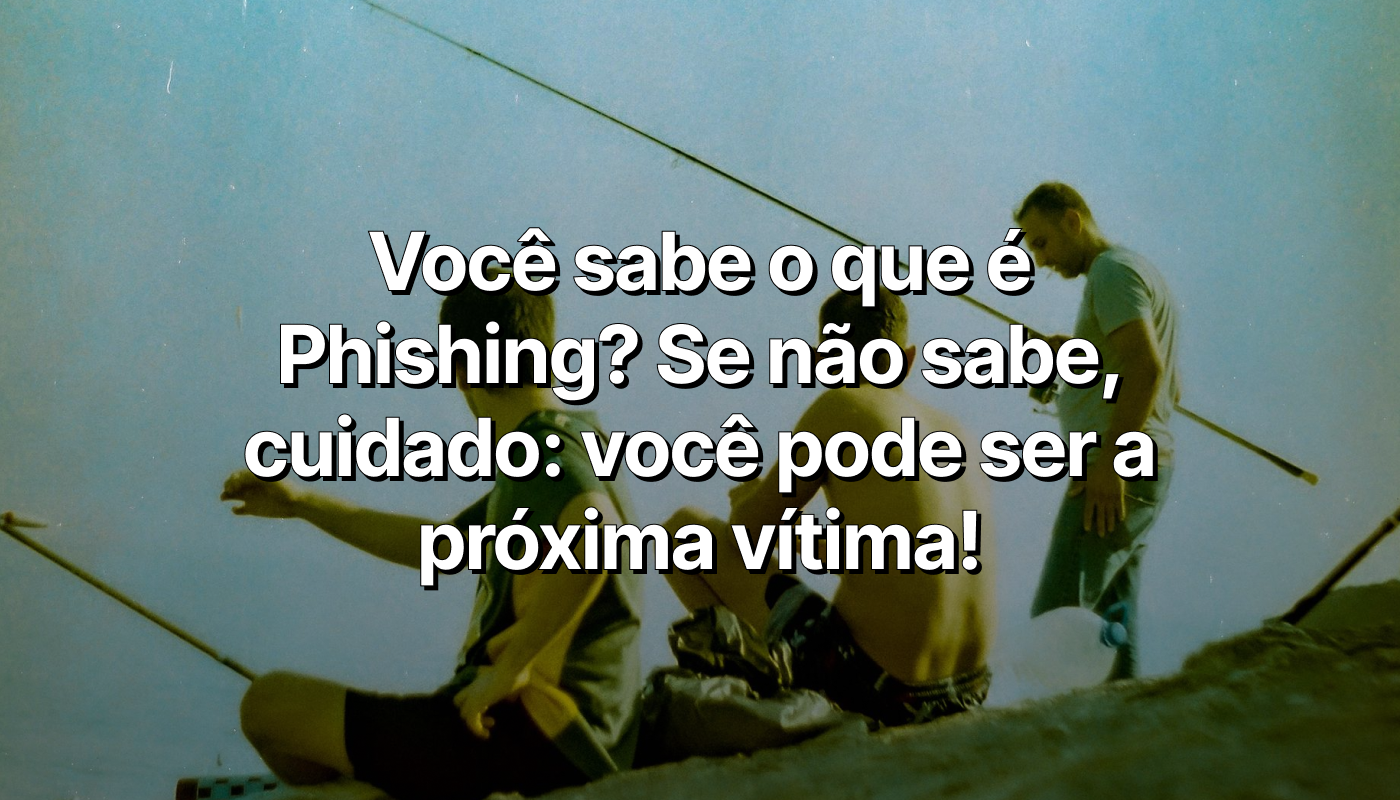
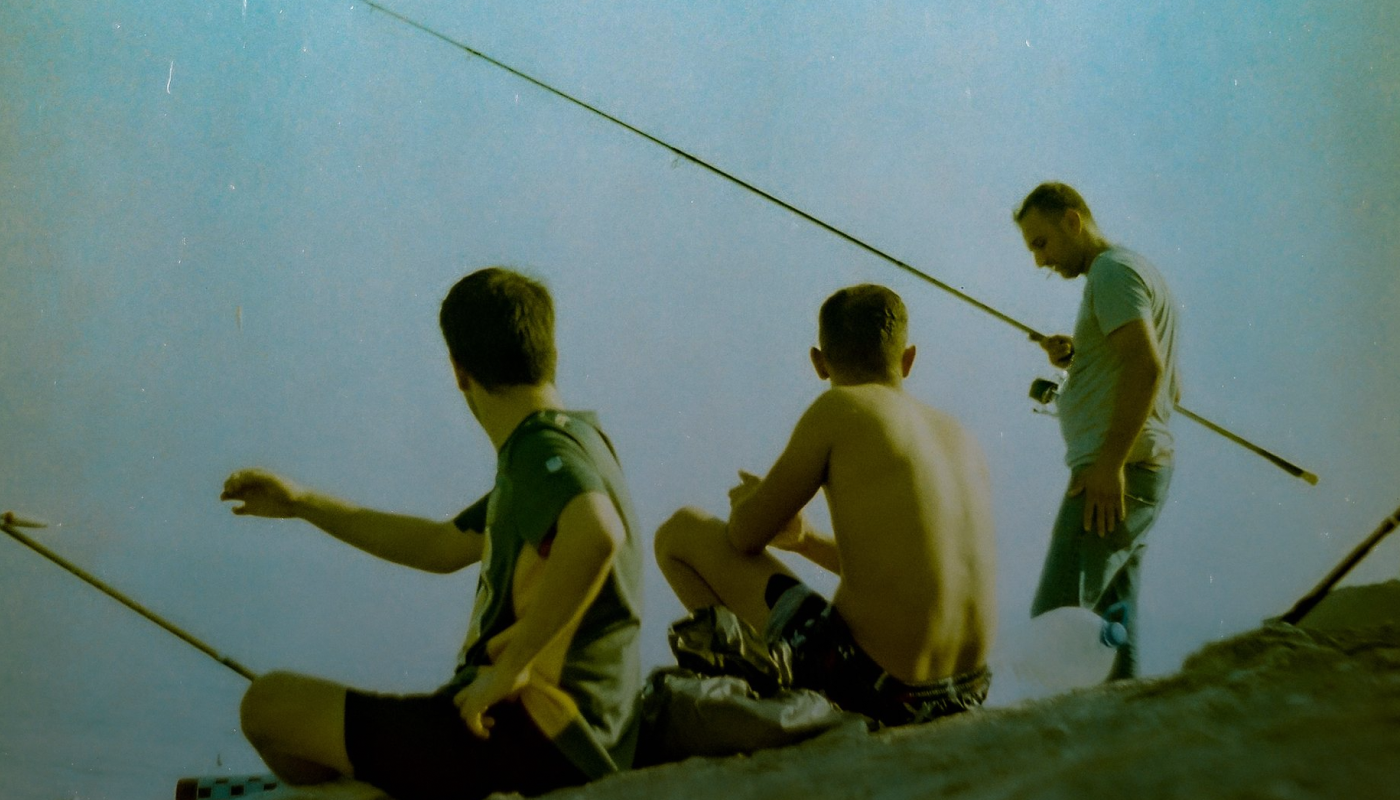
feat: novo post sobre a trend "Eu acho chique" e atualização dos componentes

Changed region(s): [[0.1536, 0.4062, 0.8293, 0.75], [0.2457, 0.2812, 0.7371, 0.375]]

diff --git a/components/image-grid.tsx b/components/image-grid.tsx
@@ -63,7 +63,7 @@ export function ImageGrid(props: ImageGridProps) {
               const folderName = parts[parts.length - 1];
               baseUrl = `/image-grid/${folderName}/`;
             }
-
+            
             return `${baseUrl}${name}`;
           });
         }
@@ -175,6 +175,32 @@ export function ImageGrid(props: ImageGridProps) {
             >
               <svg className="w-5 h-5" fill="none" viewBox="0 0 24 24" stroke="currentColor">
                 <path strokeLinecap="round" strokeLinejoin="round" strokeWidth={2} d="M6 18L18 6M6 6l12 12"/>
+              </svg>
+            </button>
+            
+            {/*TODO - implementar*/}
+            {/*Botão para voltar ao slide anterior, SE houver*/}
+            <button
+              onClick={() => {
+              }}
+              className="absolute top-50 right-50 sm:-top-8 sm:-right-8 bg-black/50 text-white p-2 rounded-full hover:bg-black/80 transition-colors backdrop-blur-sm"
+              aria-label=""
+            >
+              <svg xmlns="http://www.w3.org/2000/svg" width="16" height="16" fill="currentColor" className="bi bi-arrow-left" viewBox="0 0 16 16">
+                <path fill-rule="evenodd" d="M15 8a.5.5 0 0 0-.5-.5H2.707l3.147-3.146a.5.5 0 1 0-.708-.708l-4 4a.5.5 0 0 0 0 .708l4 4a.5.5 0 0 0 .708-.708L2.707 8.5H14.5A.5.5 0 0 0 15 8"/>
+              </svg>
+            </button>
+            
+            {/*TODO - implementar*/}
+            {/*Botão para ir para o próximo slide, SE houver*/}
+            <button
+              onClick={() => {
+              }}
+              className="absolute top-50 right-50 sm:-top-8 sm:-right-8 bg-black/50 text-white p-2 rounded-full hover:bg-black/80 transition-colors backdrop-blur-sm"
+              aria-label=""
+            >
+              <svg xmlns="http://www.w3.org/2000/svg" width="16" height="16" fill="currentColor" className="bi bi-arrow-right" viewBox="0 0 16 16">
+                <path fill-rule="evenodd" d="M1 8a.5.5 0 0 1 .5-.5h11.793l-3.147-3.146a.5.5 0 0 1 .708-.708l4 4a.5.5 0 0 1 0 .708l-4 4a.5.5 0 0 1-.708-.708L13.293 8.5H1.5A.5.5 0 0 1 1 8"/>
               </svg>
             </button>
           </div>

diff --git a/app/[slug]/page.tsx b/app/[slug]/page.tsx
@@ -160,7 +160,7 @@ export default async function Post({params}: PageProps) {
         {/* Cover Image Placeholder */}
         <div className="w-full aspect-[2/1] bg-gray-100 rounded mb-16 flex items-center justify-center text-gray-300 overflow-hidden relative">
           {post.metadata.image ? (
-            <Image width={500} height={500} src={post.metadata.image} alt={post.metadata.title} className="w-full h-full object-cover"/>
+            <Image width={1500} height={1500} src={post.metadata.image} alt={post.metadata.title} className="w-full h-full object-cover"/>
           ) : (
             <svg width="64" height="64" viewBox="0 0 24 24" fill="currentColor">
               <path d="M21 19V5c0-1.1-.9-2-2-2H5c-1.1 0-2 .9-2 2v14c0 1.1.9 2 2 2h14c1.1 0 2-.9 2-2zM8.5 13.5l2.5 3.01L14.5 12l4.5 6H5l3.5-4.5z"/>

diff --git a/next.config.ts b/next.config.ts
@@ -3,7 +3,10 @@ import type {NextConfig} from "next";
 const nextConfig: NextConfig = {
   reactStrictMode: true,
   images: {
-    remotePatterns: [new URL("https://raw.githubusercontent.com/**")],
+    remotePatterns: [
+      new URL("https://raw.githubusercontent.com/**"),
+      new URL("https://media.githubusercontent.com/**"),
+    ],
   },
 };
 

diff --git a/resources/dictionary.ts b/resources/dictionary.ts
@@ -103,7 +103,7 @@ export const dictionary = {
     link: "https://instagram.com/escudo.ifmg",
   },
   subscribe: {
-    title: "Inscreva-se",
+    title: "Inscreva-se na nossa newsletter",
     description: "Inscreva-se em nossa newsletter.",
   }
 };
